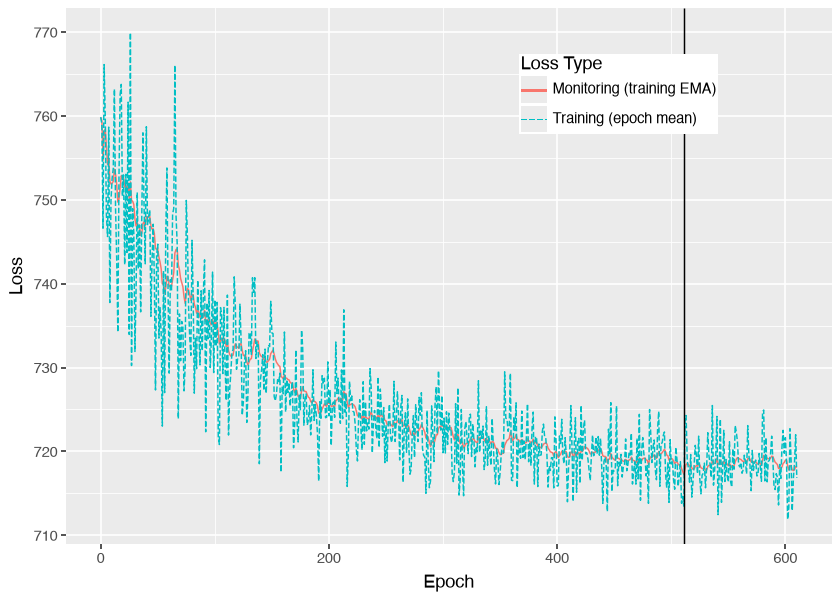
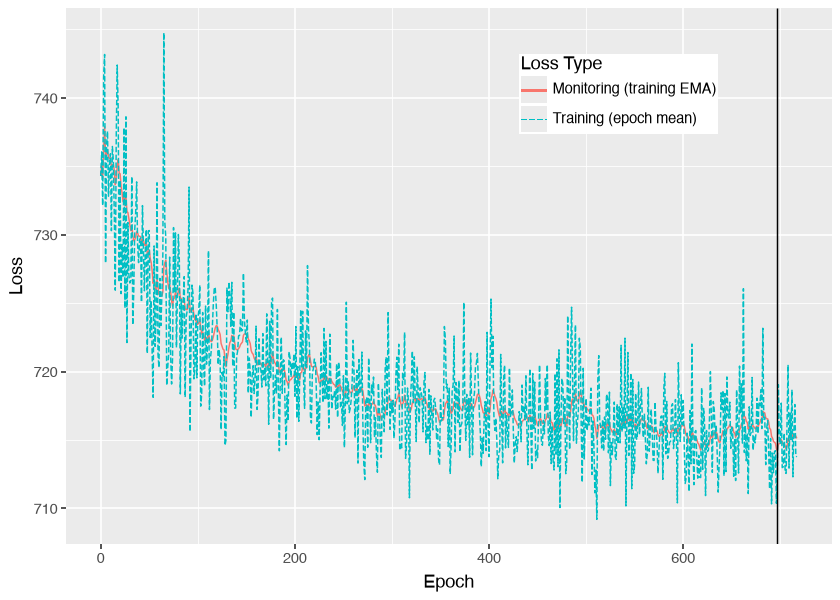
Use full-covariance Gaussian VI for the shape block

diff --git a/demo/reference_modern.py b/demo/reference_modern.py
@@ -71,7 +71,7 @@ def fit(model: lsl.Model, epochs: int = 3000, draws: int = 1000):
     point = {name: var.value for name, var in model.parameters.items()}
 
     loc_scale_block = opt.VDist(loc_scale_parameters, model).mvn_tril()
-    shape_block = opt.VDist(shape_parameters, model).mvn_diag()
+    shape_block = opt.VDist(shape_parameters, model).mvn_tril()
     family = opt.CompositeVDist(loc_scale_block, shape_block).build()
     loss = opt.NegElboLoss.from_vdist(family, nsamples=8)
     for parameters in (

diff --git a/docs/guides/conditional-shape.md b/docs/guides/conditional-shape.md
@@ -174,8 +174,11 @@ variational family; they are not posterior draws.
 
 ## Fit a variational family
 
-Use a full-covariance Gaussian block for location and scale and a diagonal Gaussian
-block for shape. Train the blocks separately, then jointly, using eight Monte Carlo
+Use a full-covariance Gaussian block for location and scale and another for shape.
+The shape block includes its spline coefficients and log smoothing variances,
+allowing their posterior dependence within the block. The two blocks remain
+independent under this variational family. Train them separately, then jointly,
+using eight Monte Carlo
 samples for each ELBO estimate.
 
 Use an Adam learning rate of `0.003` and monitor an exponential moving average
@@ -189,7 +192,7 @@ condition is not reached.
 
 ``` python
 loc_scale_block = opt.VDist(loc_scale_parameters, model).mvn_tril()
-shape_block = opt.VDist(shape_parameters, model).mvn_diag()
+shape_block = opt.VDist(shape_parameters, model).mvn_tril()
 family = opt.CompositeVDist(loc_scale_block, shape_block).build()
 loss = opt.NegElboLoss.from_vdist(family, nsamples=8)
 vi_runs = []
@@ -220,8 +223,8 @@ Markdown(pd.DataFrame(vi_runs).to_markdown(index=False))
 | stage              | epochs | status         |
 |:-------------------|-------:|:---------------|
 | location and scale |    389 | early_stopping |
-| shape              |   1127 | early_stopping |
-| joint              |    611 | early_stopping |
+| shape              |   1979 | early_stopping |
+| joint              |    718 | early_stopping |
 
 Draw 1,000 samples from the fitted family for posterior summaries and plots. The
 leading sample axes are `(1, 1000)`: one sample group containing 1,000 approximate
